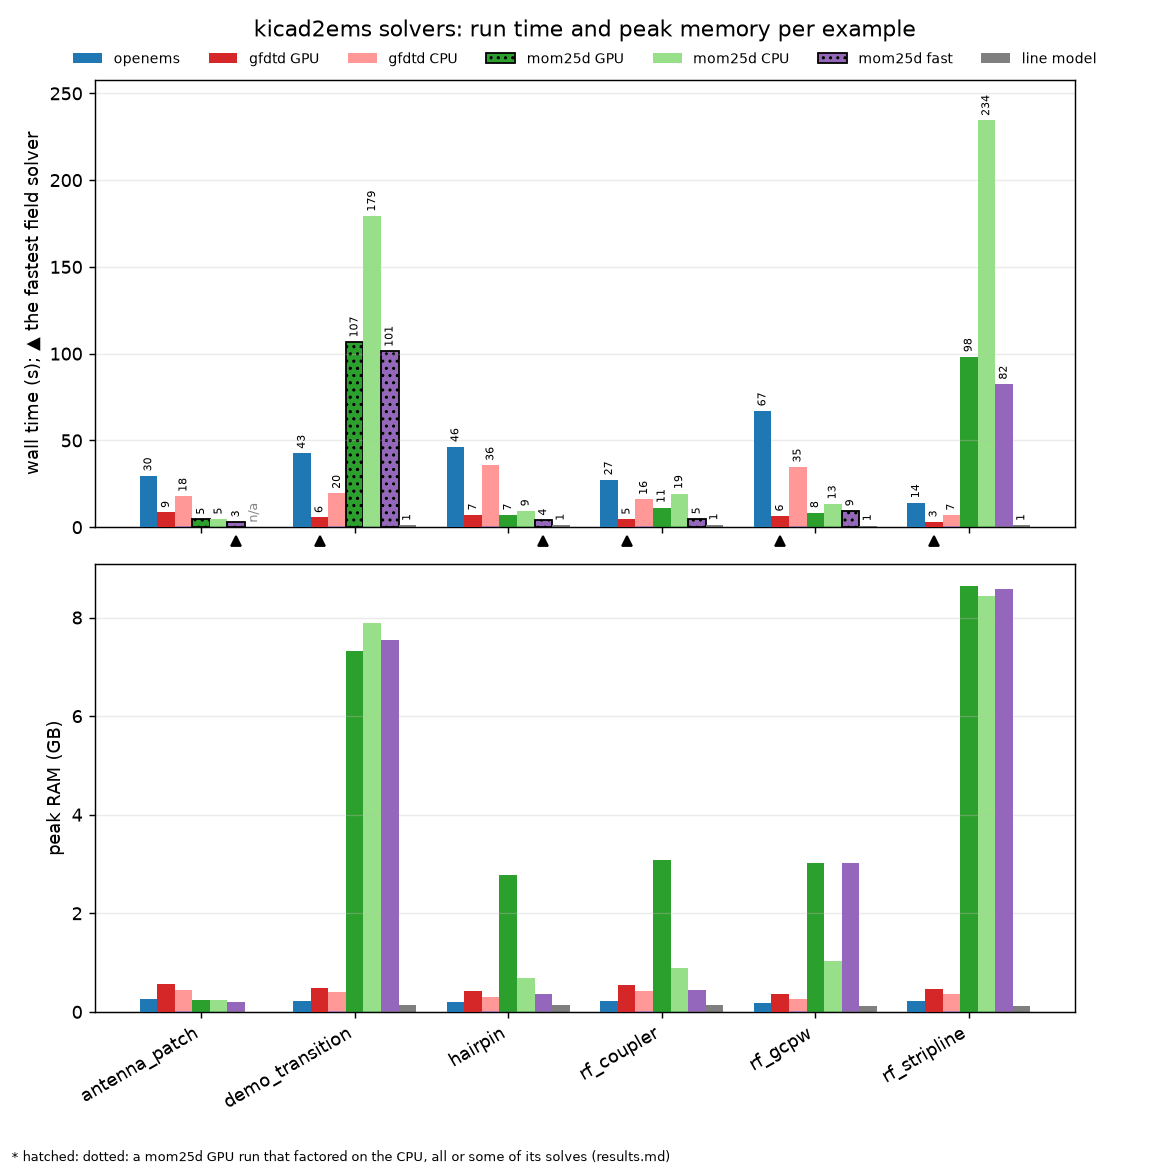
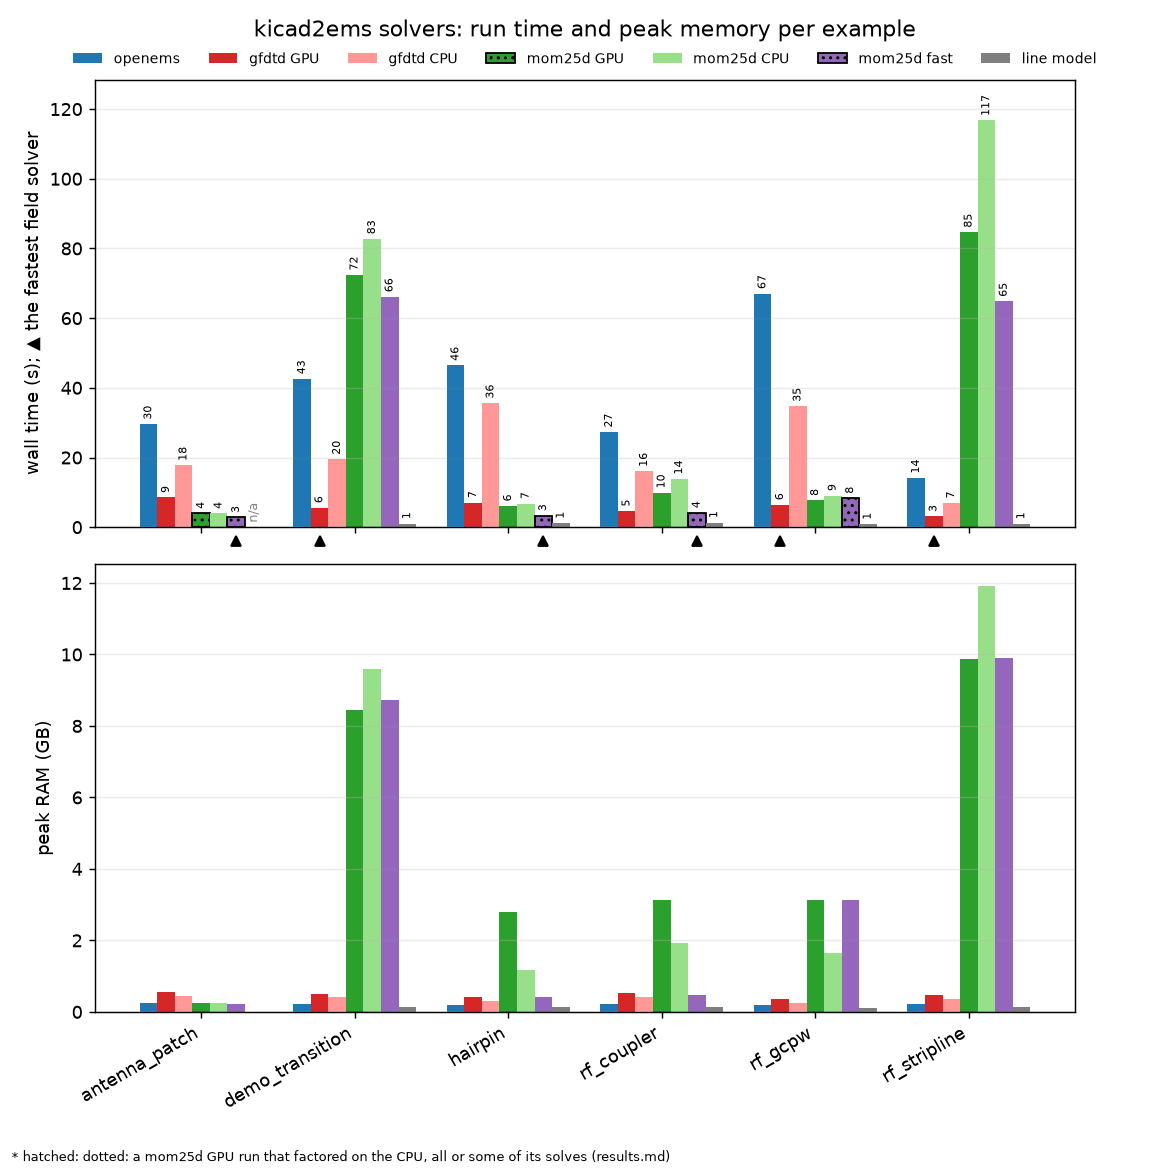
mom25d: LUs kept across the sweep, GPU solves fixed; benchmarks rerun (mom25d columns)
- docs/mom.md#reuse: factorisations kept across a sweep; the GPU section: ROCm's complex64 triangular solves
  and the CPU fallback for them.
- Benchmarks: mom25d's three columns rerun, 3 runs each: demo_transition GPU 107 -> 72 s, CPU 179 -> 83 s;
  rf_stripline GPU 98 -> 85 s, CPU 234 -> 117 s; no solve falls back to double precision.
- bench_solvers parses the solves that reused a kept LU.
- ROADMAP item 6: reuse done, the near field's reach measured (near_fac 3: half the pairs, |dS| <= 1.3e-3).
- CHANGELOG: --mom-planes / --mom-stitching-pads, solver='hodlr', the reuse, the GMRES and GPU fixes.

Claude-Session: https://claude.ai/code/session_012CT5QKroK6RqSZztGKPdWo

diff --git a/tools/bench_solvers.py b/tools/bench_solvers.py
@@ -68,6 +68,9 @@ def parse(log, name):
     m = re.search(r'mom25d: factorisations: (\d+) on the GPU, (\d+) on the CPU', log)
     if m:                                         # where the solves ran: a GPU run that fell back is marked
         info['lu_gpu'], info['lu_cpu'] = int(m.group(1)), int(m.group(2))
+    m = re.search(r'mom25d: factorisations: .*; (\d+) solves reused one', log)
+    if m:                                         # solves preconditioned by another frequency's kept LU
+        info['reused'] = int(m.group(1))
     m = re.search(r'memory: direct solver needs ~[0-9.]+ GB \(\w+ precision, ([\w-]+)(?:, ([0-9.]+) GB on the GPU)?', log)
     if m:
         info['path'] = m.group(1)

diff --git a/docs/benchmarks.md b/docs/benchmarks.md
@@ -18,12 +18,12 @@ its matrix. The fastest field solver on each board is in bold (the line model is
 
 | Example | openems | gfdtd GPU | gfdtd CPU | mom25d GPU | mom25d CPU | mom25d fast | line model | Fastest | FDTD model | mom25d model | mom25d fast model |
 |---|---|---|---|---|---|---|---|---|---|---|---|
-| antenna_patch | 30 s (30–34), 0.3 GB | 9 s, 0.6 GB | 18 s (17–18), 0.4 GB | 5 s, 0.2 GB · *on the CPU* | 5 s, 0.2 GB | **3 s, 0.2 GB** · *on the CPU* | n/a | mom25d fast | 0.42 M cells, 17920 steps | 1,391 unknowns, 11 solves, double | 466 unknowns, 9 solves, double |
-| demo_transition | 43 s (39–55), 0.2 GB | **6 s, 0.5 GB** | 20 s (20–22), 0.4 GB | 107 s (106–109), 7.3 GB (+1.9 GPU) · *2 of 19 on the CPU* | 179 s (176–180), 7.9 GB | 101 s (86–104), 7.6 GB (+1.8 GPU) · *4 of 19 on the CPU* | 1 s, 0.1 GB | gfdtd GPU | 0.51 M cells, 86099 steps | 13,670 unknowns, 18 solves, hybrid | 11,032 unknowns, 16 solves, hybrid |
-| hairpin | 46 s (42–50), 0.2 GB | 7 s, 0.4 GB | 36 s (35–36), 0.3 GB | 7 s, 2.8 GB (+0.6 GPU) | 9 s (9–10), 0.7 GB | **4 s, 0.4 GB** · *on the CPU* | 1 s, 0.1 GB | mom25d fast | 0.31 M cells, 108458 steps | 4,763 unknowns, 13 solves, hybrid | 1,992 unknowns, 11 solves, double |
-| rf_coupler | 27 s (27–28), 0.2 GB | **5 s, 0.5 GB** | 16 s (15–16), 0.4 GB | 11 s, 3.1 GB (+0.7 GPU) | 19 s (19–20), 0.9 GB | 5 s, 0.4 GB · *on the CPU* | 1 s, 0.1 GB | gfdtd GPU | 0.59 M cells, 33184 steps | 5,864 unknowns, 20 solves, hybrid | 2,360 unknowns, 14 solves, double |
-| rf_gcpw | 67 s (55–67), 0.2 GB | **6 s, 0.4 GB** | 35 s (34–46), 0.3 GB | 8 s, 3.0 GB (+0.5 GPU) | 13 s (13–14), 1.0 GB | 9 s (9–10), 3.0 GB · *on the CPU* | 1 s, 0.1 GB | gfdtd GPU | 0.20 M cells, 161086 steps | 3,526 unknowns, 18 solves, hybrid | 1,941 unknowns, 22 solves, double |
-| rf_stripline | 14 s, 0.2 GB | **3 s, 0.5 GB** | 7 s, 0.4 GB | 98 s (98–100), 8.6 GB (+2.3 GPU) | 234 s (231–238), 8.4 GB | 82 s (81–83), 8.6 GB (+2.2 GPU) | 1 s, 0.1 GB | gfdtd GPU | 0.43 M cells, 16405 steps | 15,563 unknowns, 18 solves, hybrid | 11,813 unknowns, 18 solves, hybrid |
+| antenna_patch | 30 s (30–34), 0.3 GB | 9 s, 0.6 GB | 18 s (17–18), 0.4 GB | 4 s, 0.3 GB · *on the CPU* | 4 s, 0.3 GB | **3 s, 0.2 GB** · *on the CPU* | n/a | mom25d fast | 0.42 M cells, 17920 steps | 1,391 unknowns, 11 solves, double | 466 unknowns, 9 solves, double |
+| demo_transition | 43 s (39–55), 0.2 GB | **6 s, 0.5 GB** | 20 s (20–22), 0.4 GB | 72 s (67–74), 8.4 GB (+1.9 GPU) | 83 s (81–83), 9.6 GB | 66 s (62–68), 8.7 GB (+1.8 GPU) | 1 s, 0.1 GB | gfdtd GPU | 0.51 M cells, 86099 steps | 13,670 unknowns, 16 solves, hybrid | 11,032 unknowns, 21 solves, hybrid |
+| hairpin | 46 s (42–50), 0.2 GB | 7 s, 0.4 GB | 36 s (35–36), 0.3 GB | 6 s, 2.8 GB (+0.6 GPU) | 7 s, 1.2 GB | **3 s, 0.4 GB** · *on the CPU* | 1 s, 0.1 GB | mom25d fast | 0.31 M cells, 108458 steps | 4,763 unknowns, 13 solves, hybrid | 1,992 unknowns, 11 solves, double |
+| rf_coupler | 27 s (27–28), 0.2 GB | 5 s, 0.5 GB | 16 s (15–16), 0.4 GB | 10 s, 3.1 GB (+0.7 GPU) | 14 s (14–15), 1.9 GB | **4 s, 0.5 GB** · *on the CPU* | 1 s, 0.1 GB | mom25d fast | 0.59 M cells, 33184 steps | 5,864 unknowns, 20 solves, hybrid | 2,360 unknowns, 11 solves, double |
+| rf_gcpw | 67 s (55–67), 0.2 GB | **6 s, 0.4 GB** | 35 s (34–46), 0.3 GB | 8 s (7–8), 3.1 GB (+0.5 GPU) | 9 s, 1.7 GB | 8 s, 3.1 GB · *on the CPU* | 1 s, 0.1 GB | gfdtd GPU | 0.20 M cells, 161086 steps | 3,526 unknowns, 20 solves, hybrid | 1,941 unknowns, 22 solves, double |
+| rf_stripline | 14 s, 0.2 GB | **3 s, 0.5 GB** | 7 s, 0.4 GB | 85 s (85–86), 9.9 GB (+2.3 GPU) | 117 s (116–118), 11.9 GB | 65 s (65–67), 9.9 GB (+2.2 GPU) | 1 s, 0.1 GB | gfdtd GPU | 0.43 M cells, 16405 steps | 15,563 unknowns, 18 solves, hybrid | 11,813 unknowns, 18 solves, hybrid |
 
 *on the CPU*: a GPU run of mom25d that factored on the CPU (the board below its GPU threshold, sim.GPU_MIN_N, or too large for the GPU); *n of m on the CPU*: solves that fell back to double precision on the CPU after the complex64 LU failed to precondition (the worst of the runs).
 
@@ -35,20 +35,23 @@ its matrix. The fastest field solver on each board is in bold (the line model is
   than 0.6 GB. On its CPU it is 2–6× slower, still faster than openEMS everywhere.
 - **openEMS** needs the least memory (0.2–0.3 GB). Its time follows cells × timesteps: high-Q circuits
   (hairpin, 108k steps) and the fence of rf_gcpw (161k steps) are its slow cases.
-- **mom25d** is fastest on the antenna (*mom25d fast*: 3 s) and the hairpin (4 s), and within 1–2× of gfdtd's
-  GPU on the other single-layer boards. It loses by 17–33× wherever planes are meshed: the stripline (15,563
-  unknowns) and the transition (13,670) take 80–230 s and 7–9 GB. The [roadmap](https://github.com/lowprocess/kicad2ems/blob/main/ROADMAP.md) has the plan:
+- **mom25d** is fastest on the antenna (*mom25d fast*: 3 s), the hairpin (3 s) and the coupler (4 s), and
+  within 1.4× of gfdtd's GPU on rf_gcpw. It loses by 11–22× wherever planes are meshed: the stripline (15,563
+  unknowns) and the transition (13,670) take 65–117 s and 8–12 GB. The [roadmap](https://github.com/lowprocess/kicad2ems/blob/main/ROADMAP.md) has the plan:
   solid planes as PEC and lone stitching-via pads dropped take rf_stripline to 1,227 unknowns.
 - **The fast setting** halves mom25d's time on the microstrip boards (hairpin, coupler) and costs at most 0.02
   in |S| ([quad cells](mom.md#quads)). It gains little on the plane-heavy boards: their planes, not the traces,
   hold the unknowns.
 - **The runs repeat**: the three runs of each solver differ by under 10 % on most boards. openEMS and gfdtd's CPU
-  vary most (up to 37 % and 35 %: the transition, rf_gcpw); mom25d's GPU runs by under 3 %, its fast setting
-  up to 18 % on the transition, where solves fell back to the CPU.
-- **mom25d's GPU** helps above about 3,000 unknowns (after the quad cells), 1.3–2.4× over its CPU. Small boards
+  vary most (up to 37 % and 35 %: the transition, rf_gcpw); mom25d by up to 10 % on the transition, where how
+  many solves reuse a kept LU varies with the sweep's samples.
+- **mom25d's GPU** helps above about 3,000 unknowns (after the quad cells), 1.1–1.4× over its CPU. Small boards
   stay on the CPU (marked *on the CPU*: below `sim.GPU_MIN_N`, where the GPU's start-up costs more than it
-  saves). On the transition, 2–4 of 19 solves fell back to the CPU: the complex64 LU failed to precondition
-  there, and the solve was redone in double precision.
+  saves). No solve falls back to double precision any more.
+- **mom25d keeps its LUs across the sweep** ([reuse](mom.md#reuse)): most frequencies are solved by GMRES with
+  a nearby frequency's LU instead of a new one. Against the previous measurements (2026-10-28) that took the
+  transition from 179 s to 83 s on the CPU and from 107 s to 72 s on the GPU, and the stripline from 234 s to
+  117 s and from 98 s to 85 s; the small boards gain 10–30 %.
 - **The line model** takes about a second on every board, in under 0.15 GB.
 
 To run it again: `python tools/bench_solvers.py --openems-python <python with openEMS>` (`--repeat N`, default 3;

diff --git a/docs/mom.md b/docs/mom.md
@@ -456,7 +456,7 @@ solver needs ...`):
 | Path | When | Memory for N unknowns |
 |---|---|---|
 | double precision on the CPU | up to 3,500 unknowns (or no compiled core), and it fits in half the free RAM | 18 N² bytes |
-| mixed precision on the CPU | above 3,500 unknowns, no GPU: single-precision LU refined to double (about 1.3× faster) | 10 N² bytes |
+| mixed precision on the CPU | above 3,500 unknowns, no GPU: single-precision LU refined to double (about 1.3× faster); LUs kept across the sweep where they fit (below) | 24 N² bytes, plus 8 N² for each LU kept; 10 N² where that doesn't fit |
 | GPU LU | the single-precision matrix fits on the GPU | 24 N² bytes RAM, 8 N² bytes GPU |
 | tiled | the GPU LU doesn't fit (`--mom-tiled`) | little RAM, 4 N² bytes GPU, the rest streamed from RAM |
 | compressed (BLR / ACA) | nothing else fits | much less, but slower |
@@ -465,6 +465,18 @@ The **tiled** solver keeps only half the matrix on the GPU (it is symmetric) and
 a time. It solves the matrix's symmetric part, which changes S by at most about 1e-3. Where the GPU LU
 fits, that is faster, so `--mom-tiled auto` uses tiling only for larger boards. With it, the coupler at
 0.1 mm cells (45,850 unknowns) solves in 62 s on a 16 GB card, where the CPU took over an hour.
+
+<a id="reuse"></a>
+**Across a sweep**, the matrix changes smoothly with frequency, so one frequency's LU preconditions the
+next ones: GMRES on the new matrix, with the old LU, converges in 8–30 iterations across a 1–10 GHz band. On
+the CPU, mom25d keeps up to four single-precision LUs (as memory allows) and solves each new frequency with
+the nearest one (with a GPU, up to four on the GPU, as its memory allows). It factors anew only where that
+would take more iterations than a fresh LU costs. The answer is refined to the same tolerance as a fresh solve
+(S agrees to about 1e-6). On demo_transition (13.5k unknowns, 17 solves) three LUs served the whole sweep on
+the CPU: 84 s against 176 s. With the GPU, where an LU is cheap, about half the solves reuse one. The
+compressed solvers (BLR, HODLR) keep their factorisation in the same way.
+The log says which solves reused one (`reused LU (… GHz): GMRES iterations …`); in mom25d's Python API,
+`sim.reuse = 'off'` turns it off.
 
 <a id="runtime"></a>
 ## Speed against openEMS
@@ -485,11 +497,13 @@ Measured on every example, CPU and GPU: [benchmarks](benchmarks.md). A few of th
   with the volume.
 - **Agreement**: where both resolve the structure, |S| agrees to about 0.05, and transmission to 0.2 dB
   and 1–3 ps. Larger dB differences appear only deep in stop bands and on steep filter skirts.
-- **On the GPU**, mixed precision can fail to converge at the bottom of a band, where the matrix is worst
-  conditioned. That frequency, and those up to 1.25 times it, are then solved in double precision on the
-  CPU, and the GPU is tried again above that. On the SMA launch, whether that happens at a given frequency
-  depends on rounding in the last digit of the matrix: relative noise of 1e-15 moved the fallbacks from
-  run to run, and with them the run time, between about 195 and 410 s.
+- **On the GPU**, at the bottom of a band (where the matrix is worst conditioned), ROCm's single-precision
+  triangular solves can lose the accuracy of a good LU: on demo_transition at 1 GHz they left an error of 6e3
+  where the same factor, solved on the CPU, gives 0.13. Where the GPU's solves stall, mom25d downloads the
+  factor and solves with it on the CPU, at that frequency and up to 1.25 times it; the GPU still factors.
+  Only where the factor itself is too weak is the frequency solved in double precision on the CPU. Before
+  this (and a GMRES fix of the same release), 2–4 of the transition's 19 solves fell back to double precision,
+  and on the SMA launch the fallbacks moved from run to run with the run time.
 
 <a id="core"></a>
 ## The compiled core

diff --git a/ROADMAP.md b/ROADMAP.md
@@ -118,13 +118,26 @@ copper carries 8,483 of them, mostly 38 isolated stitching-via pads, and its two
 
    To reach N log N, in order:
    - **the near field's reach**: cap it at a distance (not 5 × the cell: 15 mm under plane cells), so ACA can
-     compress from O(N r) entries and most blocks are not "hot";
+     compress from O(N r) entries and most blocks are not "hot". Measured (2026-10-29): on demo_transition
+     `near_fac` 5 gives 1,199 near triangle pairs a triangle (11.3 M, 2,100 entries a row, 75 % of them
+     between layers: every layer is within reach through thin dielectrics); 3 gives 548 and moves S by
+     ≤ 1.3e-3 from the converged reach (8), 5 by ≤ 2.3e-4; the hairpin the same. A candidate default once
+     checked on the other benchmark boards: half the near field's cost and memory in every path;
    - **strong admissibility** (H-LU, or HODLR with a nested-dissection order) so ranks stay bounded;
    - **an FFT-based operator (pFFT / AIM)**: a planar board's layered Green's function depends on the lateral
      distance only, so its far field is a 2D convolution per pair of interfaces: O(N log N) products, O(N)
      memory, with the near correction mom25d already has and a loose HODLR (1e-3–1e-4) as GMRES's
      preconditioner (11 iterations at 1e-4 on demo_transition). This is the route to boards of 100k+;
-   - **reuse across the sweep**: one factorisation preconditions the next frequencies (~18 a sweep);
+   - **reuse across the sweep**: done (2026-10-29, `fast._solve_kept`, `_solve_reused`). One frequency's LU
+     preconditions the band (the 5 GHz LU of demo_transition: 6–30 GMRES iterations from 1 to 10 GHz). The
+     CPU keeps up to 4 complex64 LUs where memory allows, the dense double Z for GMRES's products; one LU and
+     the matrix-free products where not; the GPU on the GPU; BLR and HODLR their factorisation.
+     demo_transition's CPU sweep 176 s → 84 s (3 LUs for 17 solves), GPU 107 s → 76 s. Found on the way:
+     ROCm's complex64 triangular solves lose ill-conditioned factors' accuracy (where the GPU's solves stall,
+     the factor is now solved on the CPU), and the batched GMRES's Givens rotations were not
+     conjugated, so on complex Hessenberg entries it stopped early (a true residual 1.5e-4 where it reported
+     1e-6) and the refinement was judged failed: fixed. The near pairs' analytic parts are now kept across
+     frequencies too (the near field into the dense Z 1.10 s → 0.29 s a frequency on demo_transition);
    - **loop–star (or loop–tree) basis**: the MPIE matrix's low-frequency conditioning sets both the GMRES
      iterations and how much a compressed factorisation's error is amplified (10³–10⁴ here);
    - the GPU for the compression's products and the leaves' factorisations; symmetry (Zᵀ = Z: half the

diff --git a/CHANGELOG.md b/CHANGELOG.md
@@ -8,6 +8,30 @@ The format follows [Keep a Changelog](https://keepachangelog.com/en/1.1.0/).
 
 ## Unreleased
 
+### Added
+- mom25d: `--mom-planes pec` (solid ground planes as the PEC ground or a PEC cover over the stack, not meshed)
+  and `--mom-stitching-pads drop` (stitching-via pads with nothing else on their layer left out); experimental,
+  off by default. rf_stripline 100 s → 3 s (15,563 → 1,337 unknowns), demo_transition 107 s → 11 s, S within
+  0.003 / 0.012 of the meshed model and the same agreement with openEMS (ROADMAP.md, `tools/mom_planes_study.py`).
+- mom25d: `solver='hodlr'`, a hierarchical direct solver (experimental): 3–4× less memory than the dense LU at
+  the same accuracy, not faster below ~30k unknowns (ROADMAP.md item 6).
+
+### Changed
+- mom25d keeps factorisations across a sweep and solves each new frequency by GMRES preconditioned with the
+  nearest kept one (up to four complex64 LUs on the CPU, memory allowing; BLR's and HODLR's too), factoring
+  anew only where that would cost more (docs/mom.md#reuse). demo_transition on the CPU: 176 s → 84 s.
+- mom25d with a GPU: the GPU factors, and where its single-precision triangular solves lose the factor's
+  accuracy (ROCm, at the bottom of a band) the factor is solved on the CPU instead of the frequency being solved
+  again in double precision; the LUs are kept on the GPU for the next frequencies. demo_transition 107 s → 76 s.
+- mom25d's compiled core keeps the near triangle pairs' analytic parts (geometry only) across frequencies: the
+  near field into the dense matrix 1.10 s → 0.29 s a frequency on demo_transition (96 bytes a pair, only where
+  that is under a tenth of the free memory).
+
+### Fixed
+- mom25d's batched GMRES (the mixed-precision refinement) used unconjugated Givens rotations, so on complex
+  matrices it reported convergence early (a true residual of 1.5e-4 at a reported 1e-6) and the refinement was
+  judged failed and redone in double precision.
+
 ## 2026-10-28 (261028-r1)
 
 Released together: kicad2ems, kicad2ems-fdtd (first release), mom25d, gfdtd, kicad2ems-gui, kicad2ems-ipc, dfsynth
